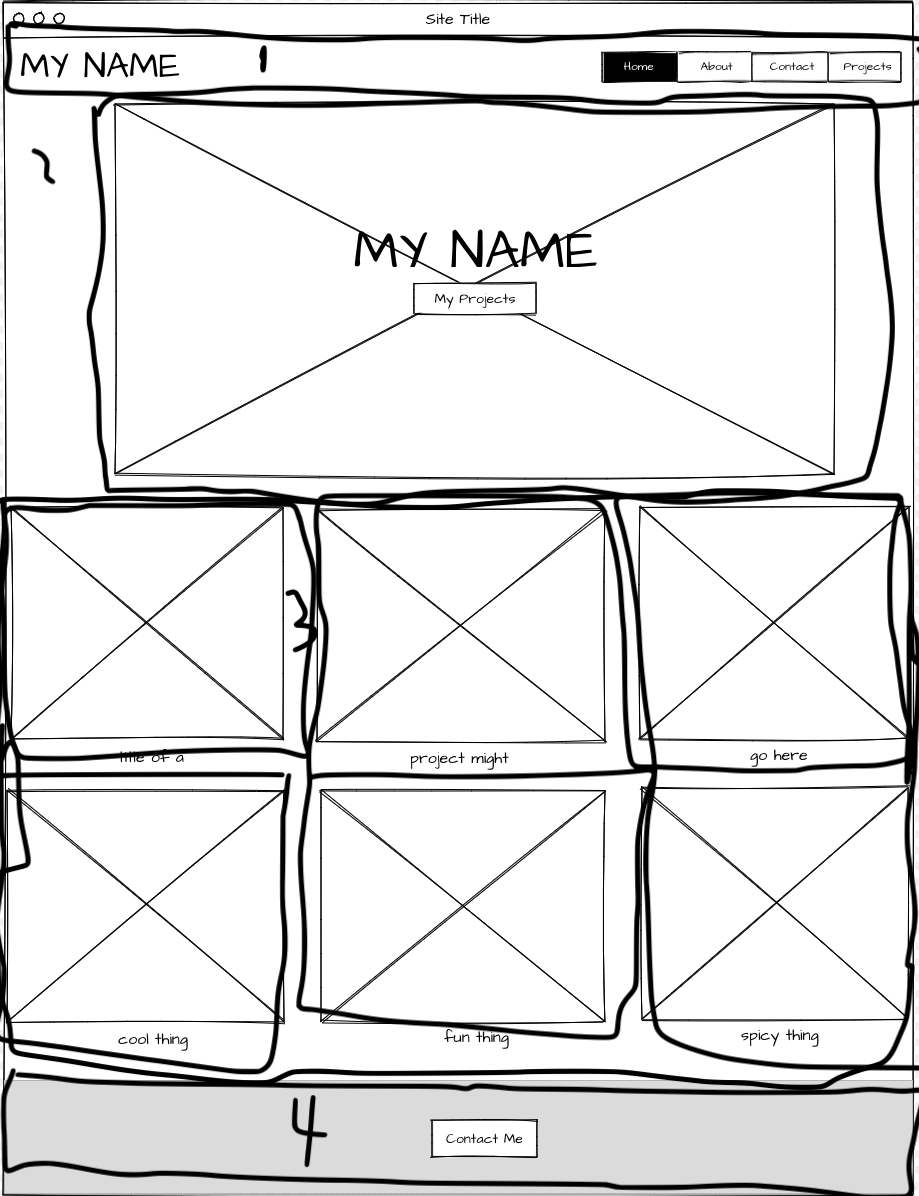
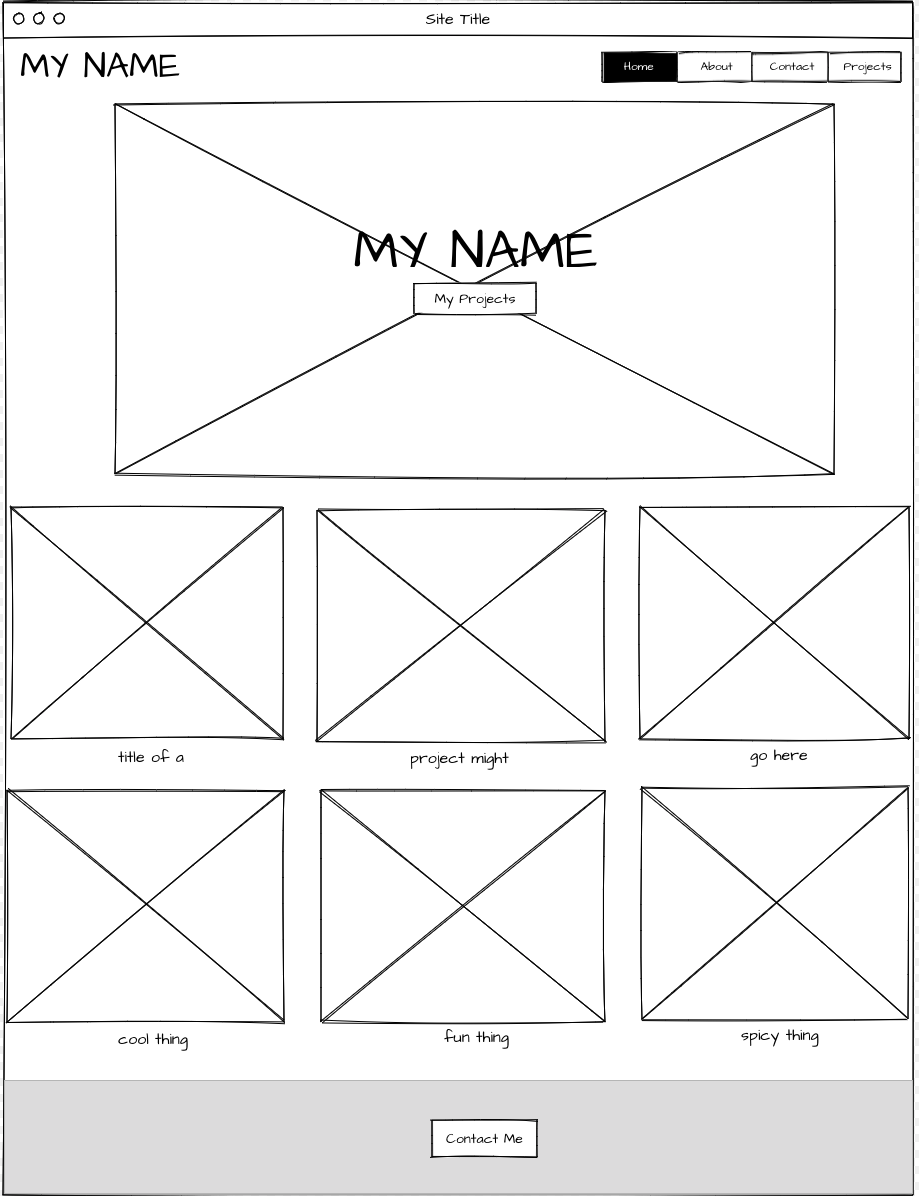
page is almost complete.

Changed region(s): [[0.0, 0.0, 1.0, 1.0], [0.6703, 0.0, 0.975, 0.0309], [0.0305, 0.1237, 0.0609, 0.1547]]

diff --git a/index.html b/index.html
@@ -8,55 +8,64 @@
     <title>Document</title>
 </head>
 <body>
+<div class="div-container">
     <header>
         <div class="header-container">
             <div id="name">
-                <h2>I'm Matthew and this is my Portfolio</h2>
+                <h2>I'm Matthew</h2>
             </div>
             <div class="nav-bar">
                 <nav>
-                    <a href="#">Home</a>
-                    <a href="/about.html">About</a>
-                    <a href="/contact.html">Contact</a>
-                    <a href="/projects.html">Projects</a>
+                    <a href="#" class="home">Home</a>
+                    <a href="/about.html" class="about">About</a>
+                    <a href="/contact.html" class="contact">Contact</a>
+                    <a href="/projects.html" class="projects">Projects</a>
                 </nav>
             </div>
-        </div>
+        </div>    
         <div class="center-project">
-            <img src="https://picsum.photos/200/300" />
+            <div id="name">
+                <h1>My Name</h1>
+                <a href="/projects.html" class="button"><button>My Projects</button></a>
+            </div>
         </div>
     </header>
     <section class="main-content">
-        <div>
+        <div class="img1">
             <img src="https://picsum.photos/200" />
             <p>Title Of A</p>
         </div>
-        <div>
+        <div class="img2">
             <img src="https://picsum.photos/200" />
             <p>Project Might</p>
         </div>
-        <div>
+        <div class="img3">
             <img src="https://picsum.photos/200" />
             <p>Go Here</p>
         </div>
-        <div>
+        <div class="img4">
             <img src="https://picsum.photos/200" />
             <p>Cool Thing</p>
         </div>
-        <div>
+        <div class="img5">
             <img src="https://picsum.photos/200" />
             <p>Fun Thing</p>
         </div>
-        <div>
+        <div class="img6">
             <img src="https://picsum.photos/200" />
             <p>Spicy Thing</p>
         </div>
     </section>
     <footer>
-        <i class="fab fa-github-square"></i>
-        <i class="fab fa-twitter-square"></i>
-        <i class="fas fa-envelope-square"></i>
+        <div class="button2">
+            <a href="/contact.html"><button>Contact Me</button></a>
+        </div>
+        <div class="icons">
+            <i class="fab fa-github-square"></i>
+            <i class="fab fa-twitter-square"></i>
+            <i class="fas fa-envelope-square"></i>
+        </div>
     </footer>
-    
+</div>
 </body>
 </html>

diff --git a/style/index.css b/style/index.css
@@ -48,6 +48,8 @@ table {
 	border-spacing: 0;
 }
 
+
+
 html {
     font-size: 62.5%;
 }
@@ -56,6 +58,7 @@ body {
     font-size: 1.6rem;
     line-height: 1.5rem;
     font-family: Arial, Helvetica, sans-serif;
+    background-color: whitesmoke;
 }
 
 h1, h2, h3, h4, h5, h6 {
@@ -71,8 +74,139 @@ a{
     text-decoration: none;
 }
 
+* { 
+    outline: 1px solid red;
+    outline-offset: -1px;
+  }
+
+.div-container{
+    background-color: darkgrey;
+}
+
 /* Header */
 
+h2 {
+    font-size: 2.4rem;
+}
+
+header { 
+    padding: 3rem;
+    margin: 0 auto;
+}
+
+.header-container {
+    width: 100%;
+    display: flex;
+    flex-direction: row;
+    justify-content: space-between; 
+    align-items: center;
+    margin: 0 auto;
+}
+
+.name {   
+    margin-top: 2rem;
+    padding: 4rem;
+    display: flex;
+    justify-content: center;
+}
+
+
+.nav-bar {
+    display: flex;
+    margin: 1rem;
+    justify-content: flex-end;
+
+}
+
+.home {
+    margin: 0rem;
+    padding: 2rem;
+}
+
+.about{
+    margin: 2rem auto;
+    padding: 2rem;
+}
+
+.contact {
+    margin: 2rem auto;
+    padding: 2rem;
+}
+
+.projects {
+    margin: 2rem auto;
+    padding: 2rem;
+}
+
+
+
+
+/* Projects Button */
+
+h1 {
+    font-size:3rem;
+}
+
+.center-project {
+    width: 60%;
+    display: flex;
+    justify-content: center;
+    margin: 0 auto;
+    align-items: center;
+    padding: 12rem 10rem;
+    background-color: crimson;
+}
+
+#name {
+    display: flex;
+    flex-direction: column;   
+    padding: 4rem;
+    align-items: center;
+}
+
+#name button {
+    display: flex;
+    justify-content: center;
+    margin-top: 2rem;
+    padding: 1rem 2rem;
+}
+
+
 /* Main Content */
+.main-content {
+    margin: 0 auto;
+    display: flex;
+    flex-wrap: wrap;
+    justify-content: space-evenly;
+}
+
+.main-content img {
+    width: 260px;
+    height: auto;
+}
+
+.main-content div p {
+    text-align: center;
+    margin: 1rem 0 2rem;
+}
 
 /* Footer/Contacts */
+
+footer {
+    background-color: grey;
+    padding: 4rem;
+    display: flex;
+    flex-direction: column;
+    justify-content: center;
+    align-items: center;
+}
+
+.button2 a {
+    padding: 1rem 2rem;
+
+}
+
+i {
+    color: black;
+    font-size: 4rem;
+}

diff --git a/ReadMe.md b/ReadMe.md
@@ -36,8 +36,8 @@ Once your repository is set up, practice what you learned today to create a port
 
 - [X]  A navigation bar with `About`, `Projects`, and `Contact` that link to the corresponding pages
 - [X]  Gallery of projects created with flexbox - you may use random images in place of project screenshots for now with the random image link: https://picsum.photos/ or you may use images that mean something to you
-- [ ]  Information about you in place of the given placeholder
-- [ ]  A `My Projects` button that links to the projects page
+- [X]  Information about you in place of the given placeholder
+- [X]  A `My Projects` button that links to the projects page
 - [ ]  A `Contact Me` button that links to the contact page
 - [X]  Links to any social media profiles (Instagram, linkedIn, Twitter) into the footer section of your home page
 
